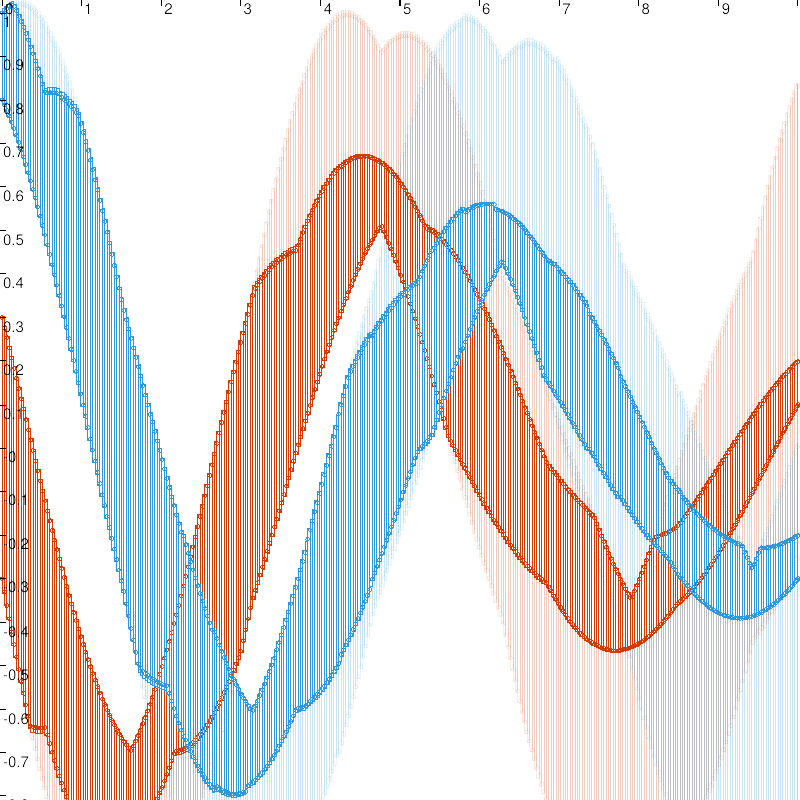
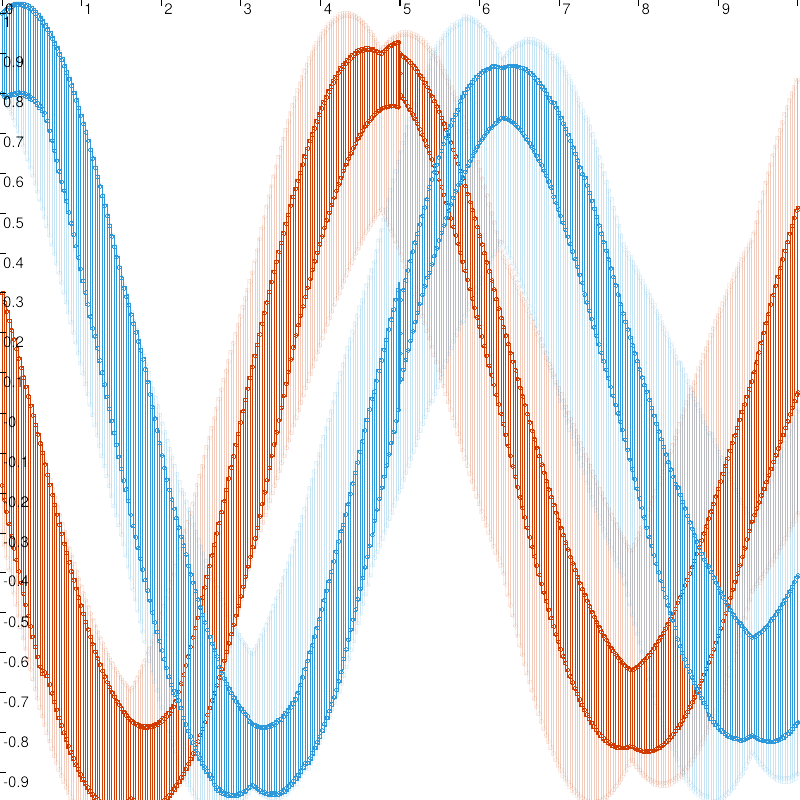
Add intersection of zonotope with box, to make tube contraction a bit more efficient.

diff --git a/src/core/domains/zonotope/codac2_Zonotope.cpp b/src/core/domains/zonotope/codac2_Zonotope.cpp
@@ -9,6 +9,7 @@
 
 #include "codac2_Zonotope.h"
 #include "codac2_inversion.h"
+#include "codac2_arith_mul.h"
 
 namespace codac2
 {
@@ -134,10 +135,32 @@ namespace codac2
     return (Z += boxadd);
   } 
 
+  Zonotope &Zonotope::operator&=(const IntervalVector &box) {
+     if (this->is_empty()) return (*this);
+     if (box.is_empty()) { this->set_empty(); return (*this); }
+     if (this->box().is_subset(box)) return (*this);
+     IntervalVector rhs = IntervalVector::constant(A.cols(),{-1,1});
+     IntervalMatrix cpA = this->A;
+     MulOp::bwd(box-this->c,cpA,rhs);
+     if (rhs.is_empty()) { this->set_empty(); return (*this); }
+     Vector delta = this->A*rhs.mid();
+     this->c += delta;
+     for (Index i=0;i<this->A.cols();i++) {
+        this->A.col(i) *= rhs[i].rad();
+     }
+     return (*this);
+  }
+  
+  Zonotope Zonotope::operator& (const IntervalVector &box) const {
+      Zonotope ret(*this);
+      ret  &= box;
+      return ret;
+  }
+
 
   Zonotope Zonotope::reduction(double o, bool invert) const {
      assert_release(o>=1.0 && "Zonotope reduction must give an order >= 1.");
-     if (empty_flag) return (*this);
+     if (this->is_empty()) return (*this);
      Index dim = A.rows();
      if (A.cols() <= dim*o && !invert) return (*this);
      Index newcols = dim*o;

diff --git a/src/core/domains/zonotope/codac2_Zonotope.h b/src/core/domains/zonotope/codac2_Zonotope.h
@@ -139,6 +139,25 @@ namespace codac2
        */ 
       Zonotope reduction(double o, bool invert=false) const;
 
+      /** 
+       * \brief In-place intersection of a zonotope and a box. 
+       * Not very precise but may be useful in some case.
+       * 
+       * \param box the box to be intersected 
+       * \return (*this)
+       */
+      Zonotope &operator&=(const IntervalVector &box);
+
+     /** 
+      * \brief Intersection of a zonotope and a box. Not very precise
+      * but may be useful in some case.
+      * 
+      * \param box the box to be intersected 
+      * \return a new zonotope
+      */
+      Zonotope operator&(const IntervalVector &box) const;
+
+
       /**
        * \brief Center of the zonotope
        */
@@ -153,6 +172,7 @@ namespace codac2
        * \brief Flag indicating whether the zonotope is empty
        */
       bool empty_flag = false;
+
   };
 
   /**
@@ -163,4 +183,5 @@ namespace codac2
    * \return The output stream with the zonotope information.
    */
   std::ostream& operator<<(std::ostream& str, const Zonotope& z);
+
 }

diff --git a/src/core/diffinclusions/codac2_DI_Integration.h b/src/core/diffinclusions/codac2_DI_Integration.h
@@ -93,7 +93,7 @@ namespace codac2
            std::tie(result,out_gate2) = 
                   this->integration_step(z1,in_domain);
   	 if (result) 
-  	     out_gate = out_gate2; /* FIXME : intersection? */
+  	     out_gate = (out_gate2 & in_domain); /* FIXME : intersection? */
            return result;
       }
   
@@ -187,9 +187,12 @@ namespace codac2
                    sl->codomain() &=
 			_di->to_X(IS::intVect_from_DomainA(current));
 		   if (sl->codomain().is_empty()) empty=true;
+		   current &= _di->from_X(sl->codomain());
+		   if (current.is_empty()) empty=true;
                } else {
                    DomB indomain2(_di->from_X(sl->codomain()));
                    DomA out_gate2;
+                   current &= indomain2;
                    bool result = this->contract_one_step(
   			sl->t0_tf(),
   		        current, indomain2, out_gate2, u, forward);

diff --git a/doc/manual/manual/functions/differentialinclusions/src2.cpp b/doc/manual/manual/functions/differentialinclusions/src2.cpp
@@ -23,7 +23,7 @@ int main()
       DefaultFigure::plot_tube(tube[0],Color::red(0.1));
       DefaultFigure::plot_tube(tube[1],Color::blue(0.1));
 
-      tube.set(IntervalVector({{0.1,0.2},{-0.3,-0.2}}),Interval(10.0));
+      tube.set(IntervalVector({{0.85,0.9},{0.15,0.2}}),Interval(5.0));
       integration1.contract_sliced_tube
                 (tube,Interval(-0.03,0.03),TimePropag::FWD_BWD);
 

diff --git a/examples/17_diffinclusions/main_tube.cpp b/examples/17_diffinclusions/main_tube.cpp
@@ -22,7 +22,7 @@ int main()
       DefaultFigure::plot_tube(tube[0],Color::red(0.1));
       DefaultFigure::plot_tube(tube[1],Color::blue(0.1));
 
-      tube.set(IntervalVector({{0.1,0.2},{-0.3,-0.2}}),Interval(10.0));
+      tube.set(IntervalVector({{0.85,0.9},{0.15,0.2}}),Interval(5.0,5.00));
       integration1.contract_sliced_tube
 		(tube,Interval(-0.03,0.03),TimePropag::FWD_BWD);
 
